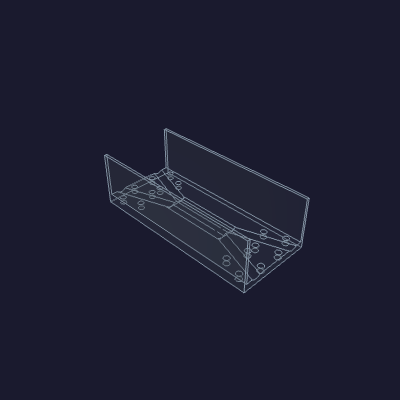
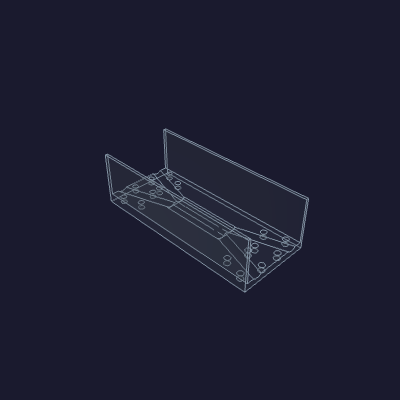
valve-manifold: model the wider valve as body_width_x (34.25), trays pack to it
Reframe the prior commit's keep-out as a real body dimension instead of a pad
scattered into the trays: body_width_x = body_width + 2*body_x_pad (34.25 X vs the
32.25 footprint). The top box and bag-circuit's column spacing (→ bib/nozzle) now
derive from body_width_x/2 — geometry is unchanged, it equals the old
body_radius+pad. Source-select reverted: its valve_y is a hand-measured clearance
minimum, not body_width-derived, so it sits outside this dimension; the wider valve
still clears there. Only source-select's STEP/README move.

Changed region(s): [[0.24, 0.33, 0.78, 0.75], [0.48, 0.48, 0.57, 0.57], [0.57, 0.51, 0.63, 0.54]]

diff --git a/hardware/reference/beduan-solenoid/beduan_solenoid.py b/hardware/reference/beduan-solenoid/beduan_solenoid.py
@@ -33,7 +33,8 @@ body_width = 32.25                  # footprint width; also the central-boss dia
 body_radius = body_width / 2.0  # [16.12 mm](BODY_RADIUS)
 corner_boss_radius = 6.8 / 2.0
 top_box_height = 5.0
-body_x_pad = 1.0   # per-side X keep-out beyond the body footprint; the trays pack to it
+body_x_pad = 1.0   # per-side X keep-out beyond the footprint
+body_width_x = body_width + 2 * body_x_pad   # X footprint width; the trays pack to it
 
 body_top_z = 30.6
 boss_z_range = (6.0, body_top_z)              # central boss; corner posts run full-height below it
@@ -91,7 +92,7 @@ def build_body():
     top_box = (
         cq.Workplane("XY")
         .workplane(offset=top_box_z_range[0])
-        .box(body_width + 2 * body_x_pad, body_width, top_box_height, centered=(True, True, False))
+        .box(body_width_x, body_width, top_box_height, centered=(True, True, False))
     )
     return body.union(top_box)
 
@@ -153,7 +154,7 @@ def main():
         _here.parent / "README.md",
         variables={
             "BODY_DIA": f"{body_width:.4g}",
-            "TOP_BOX_X": f"{body_width + 2 * body_x_pad:.4g}",
+            "TOP_BOX_X": f"{body_width_x:.4g}",
             "POST_DIA": f"{2 * corner_boss_radius:.4g}",
             "PORT_DIA": f"{2 * port_radius:.4g}",
             "PORT_LEN": f"{port_length:.4g}",

diff --git a/hardware/printed-parts/valve-manifold/source-select-tray/source_select_tray.py b/hardware/printed-parts/valve-manifold/source-select-tray/source_select_tray.py
@@ -60,7 +60,7 @@ outlet_y = 7.35           # divider outlet offset from its axis
 port_half = 29.5          # valve port half-length
 bridge_gap = 2.0          # stem-to-stem gap between Y-A and Y-B
 tube = 15.0               # straight valve-port-tip to divider-outlet run
-valve_y = 20.45 + cell.valve.body_x_pad   # valve Y offset — minimum body clearance plus the X keep-out pad
+valve_y = 20.45           # valve Y offset — minimum that keeps bodies clear
 
 divider_x = (2 * div_half + bridge_gap) / 2.0  # divider center offset
 _aim_len = port_half + tube                     # valve center to divider outlet
@@ -119,7 +119,7 @@ wall_thickness = 3.0
 wall_clear = 1.0
 wall_top_z = 60.0
 stack_pitch = wall_top_z - bot_z
-valve_y_extent = 40.61 + cell.valve.body_x_pad   # valve reach in |Y| after aiming (valve sits the pad further out)
+valve_y_extent = 40.61             # valve reach in |Y| after aiming
 
 _socket_x = [
     abs(vx + _rot2(sx * corner_pos, sy * corner_pos, _aim_phi(vx, vy, dx, dy))[0])

diff --git a/hardware/printed-parts/valve-manifold/bag-circuit-tray/bag_circuit_tray.py b/hardware/printed-parts/valve-manifold/bag-circuit-tray/bag_circuit_tray.py
@@ -46,7 +46,7 @@ _tee_path = _hw / "reference" / "tee-connector" / "tee-connector.step"
 
 # --- Shared geometry ------------------------------------------------------
 port_half = 29.5  # valve port half-length
-row_half = cell.valve.body_radius + cell.valve.body_x_pad  # column-pair half-spacing; bodies clear by the keep-out pad
+row_half = cell.valve.body_width_x / 2  # column-pair half-spacing = the valve's X half-width
 tee_run_half = 20.07  # Tee run half-length (port to center)
 valve_x = tee_run_half + port_half  # valve-center X; the inner port tip lands on the Tee run port
 

diff --git a/hardware/printed-parts/valve-manifold/source-select-tray/README.md b/hardware/printed-parts/valve-manifold/source-select-tray/README.md
@@ -21,14 +21,14 @@ Z = [11.3](PORT_Z).
   mirrored.
 - Each valve is rotated about Z so its **port axis points straight at the
   divider outlet** it feeds — a **straight [15](TUBE) mm tube** spans the gap. The
-  valves sit at **(±[81.71](SRC_VALVE_X), ±[21.45](SRC_VALVE_Y))**, tilted ~17° off X (the minimum Y
+  valves sit at **(±[82.03](SRC_VALVE_X), ±[20.45](SRC_VALVE_Y))**, tilted ~17° off X (the minimum Y
   separation that keeps the four bodies clear).
 
 The 6 bodies are clash-free.
 
 ## The tray
 
-A frame plate (Z [-3](TRAY_BOT_Z) → [6](TRAY_TOP_Z)), **[207](SRC_PLATE_W) × [91](SRC_PLATE_D) × [63](STACK_PITCH) mm**, with a **solid floor**. Each
+A frame plate (Z [-3](TRAY_BOT_Z) → [6](TRAY_TOP_Z)), **[208](SRC_PLATE_W) × [89](SRC_PLATE_D) × [63](STACK_PITCH) mm**, with a **solid floor**. Each
 valve drops into rotated corner sockets and a port saddle along its aim line;
 each Y-divider sets into **three grooves** cut into the floor (the stem axis at
 Y = 0 and the two outlets at Y = ±[7.35](OUTLET_Y)).
